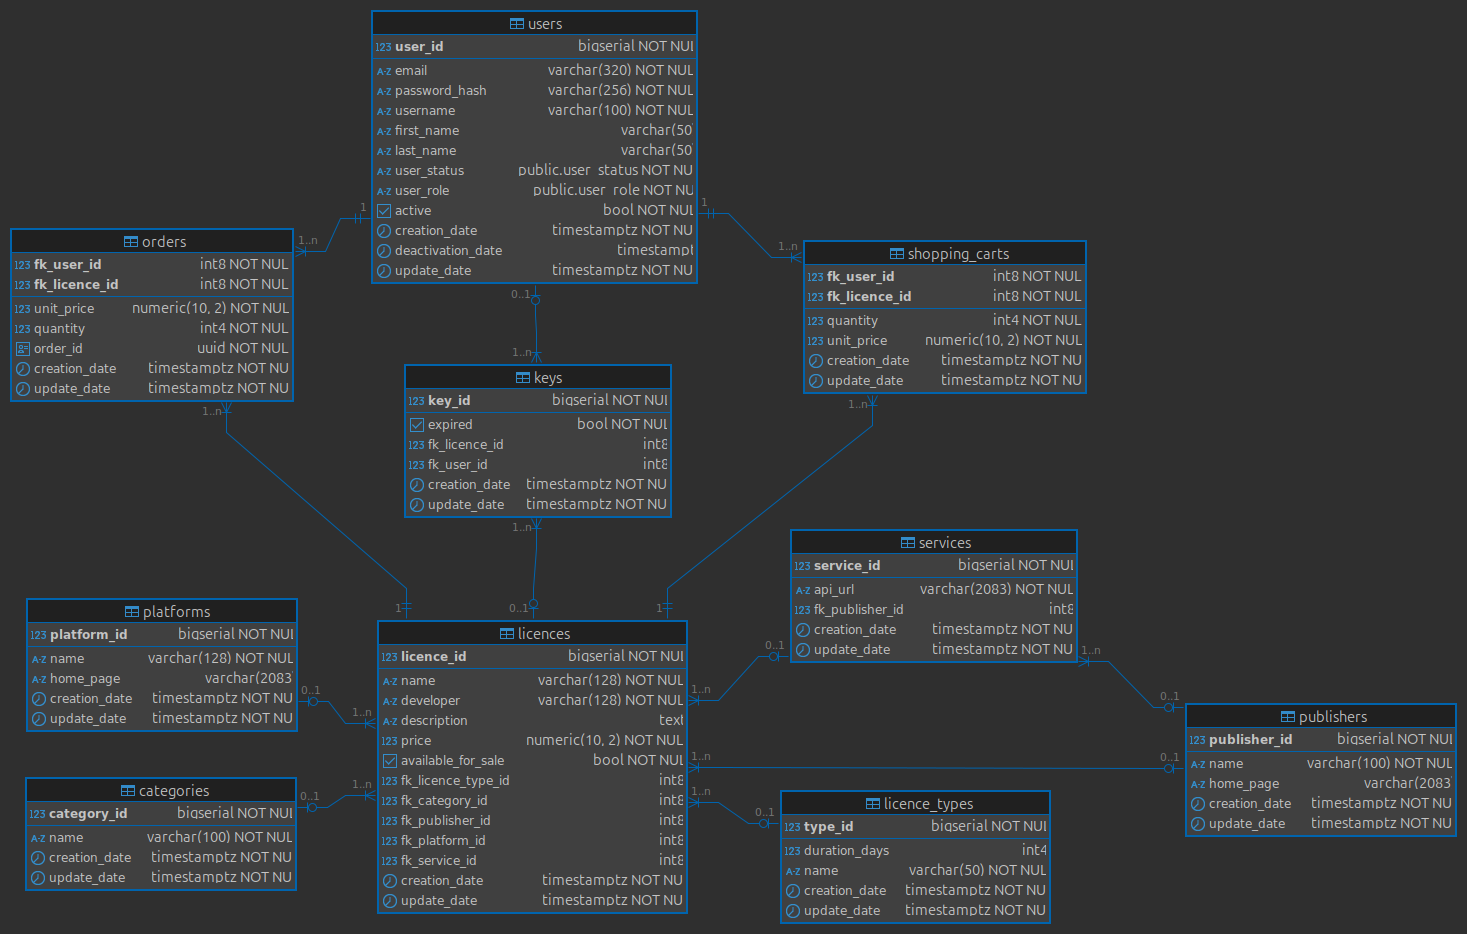
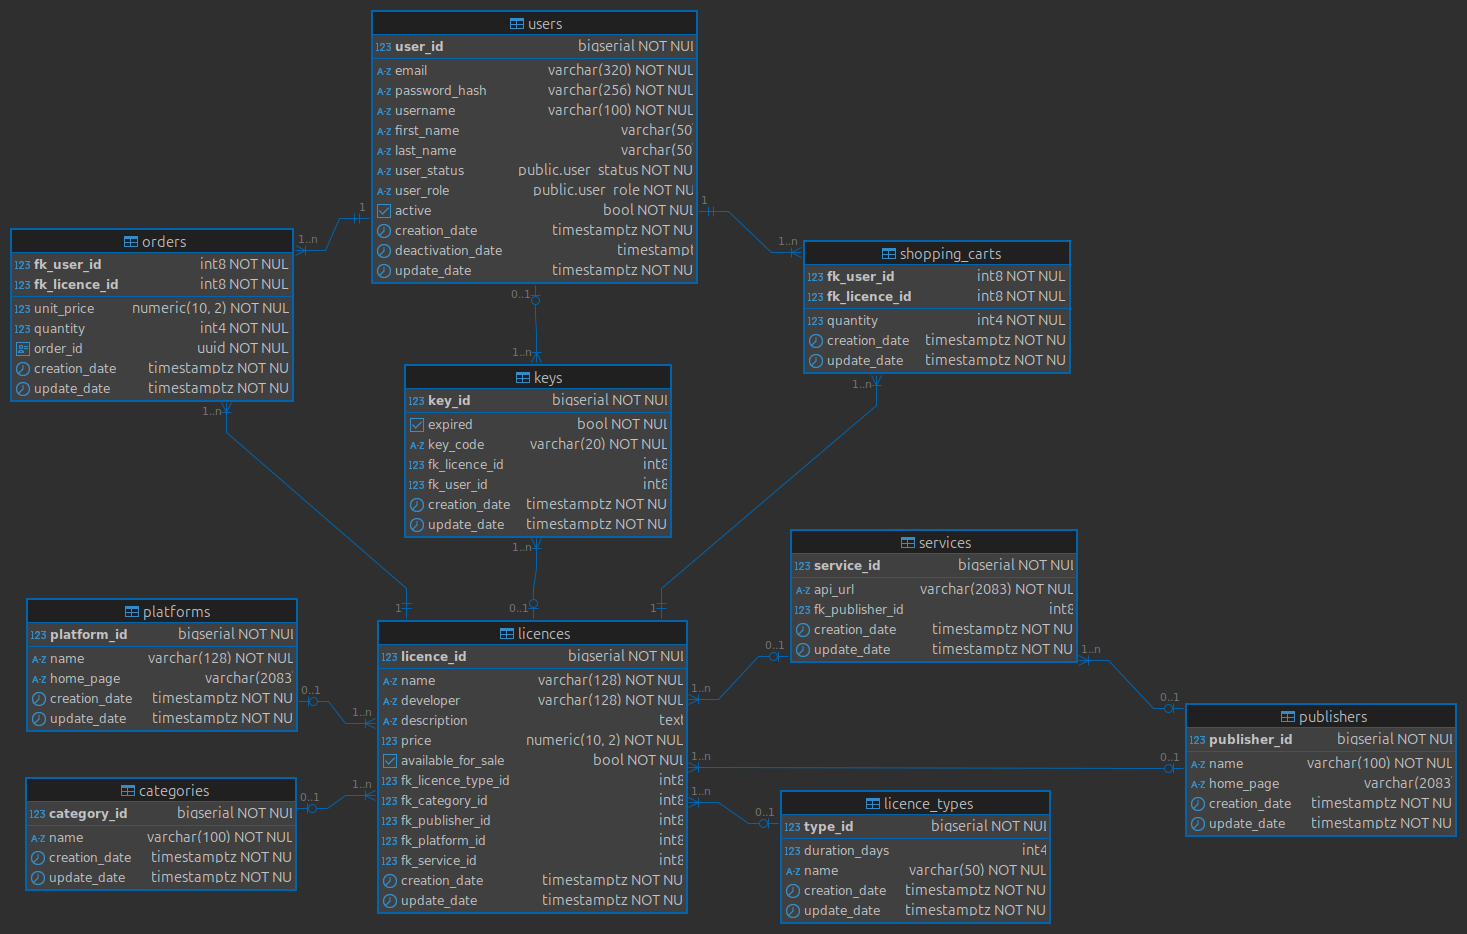
Updates Key entity class with keyCode field.

diff --git a/Backend/src/main/java/com/gszp/backend/model/Key.java b/Backend/src/main/java/com/gszp/backend/model/Key.java
@@ -19,6 +19,9 @@ public class Key {
     @Column(name = "key_id")
     private Long keyId;
 
+    @Column(name = "key_code", nullable = false, unique = true)
+    private String keyCode;
+
     @Column(nullable = false)
     private Boolean expired = Boolean.FALSE;
 
